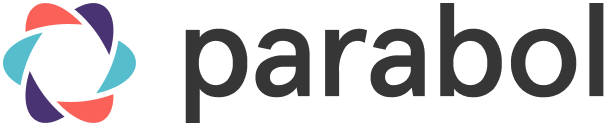
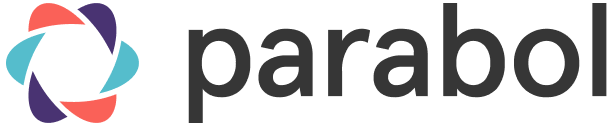
fix email header sizing, again

diff --git a/packages/client/modules/email/components/Header/Header.tsx b/packages/client/modules/email/components/Header/Header.tsx
@@ -37,7 +37,7 @@ const Header = (props: Props) => {
                 height={42}
                 src={`${ExternalLinks.EMAIL_CDN}email-header-branding-color@3x.png`}
                 style={imageStyle}
-                width={203}
+                width={204}
               />
             </a>
           </td>
